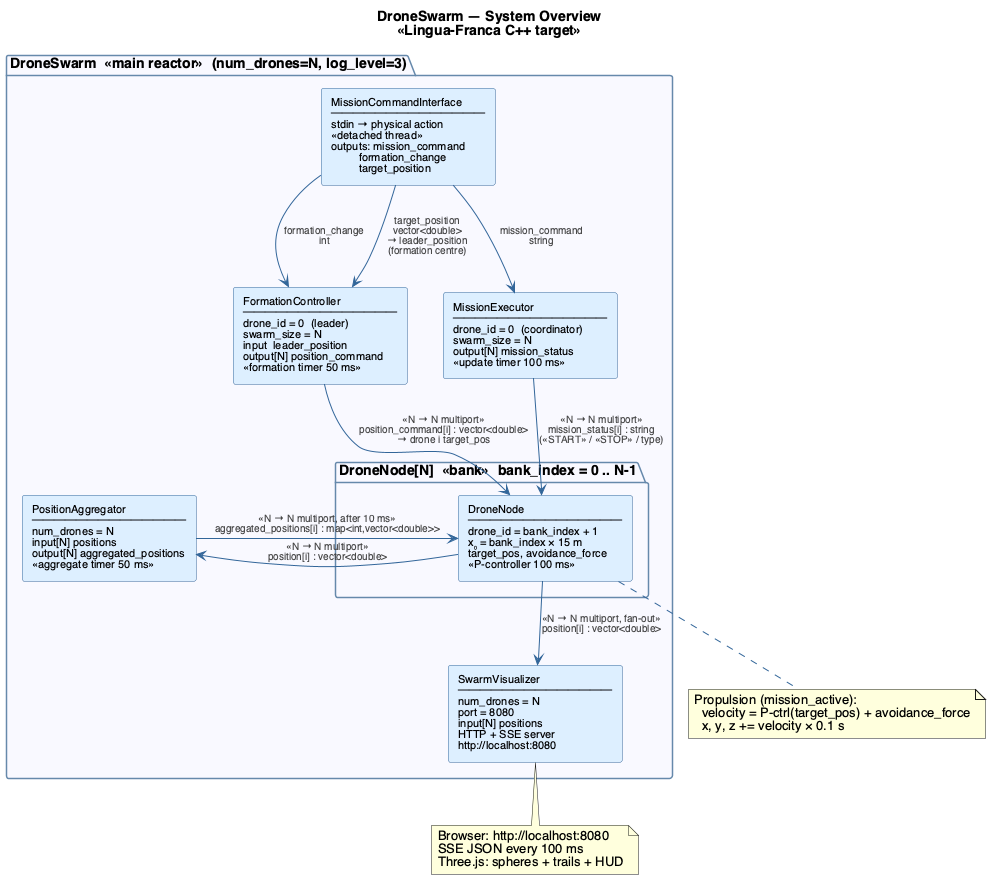
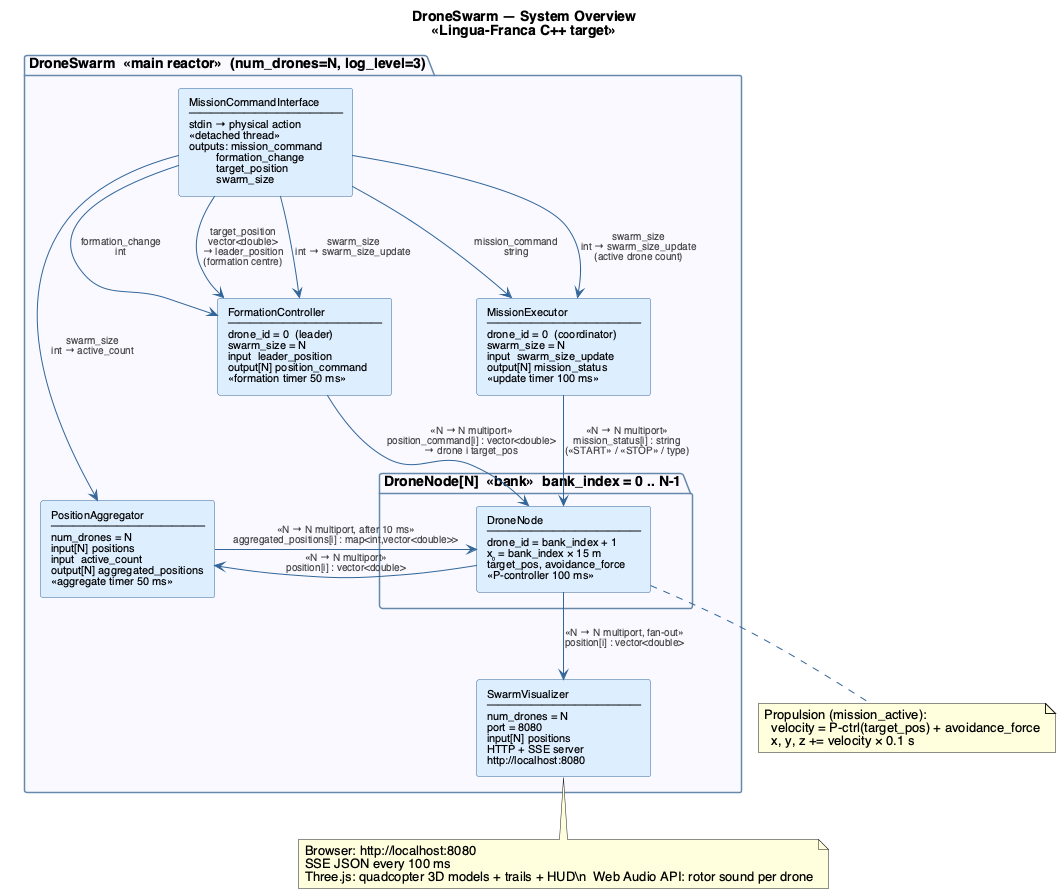
update doc with last changes: dynamic swarm resizing (limit max: initial size), quadcopter 3D model to visualize drones, sound per drone

Changed region(s): [[0.0, 0.0, 0.999, 1.0], [0.0605, 0.2148, 0.1514, 0.2761]]

diff --git a/doc/architecture.md b/doc/architecture.md
@@ -120,6 +120,7 @@ Bridge between the human operator and the reactive system. Uses an LF **physical
 | `mission_command` | `string` | `mission_coordinator.mission_command` |
 | `formation_change` | `int` | `swarm_formation.formation_change` |
 | `target_position` | `vector<double>` | `swarm_formation.leader_position` |
+| `swarm_size` | `int` | `swarm_formation.swarm_size_update`, `mission_coordinator.swarm_size_update`, `aggregator.active_count` |
 
 **Recognised commands:**
 
@@ -129,6 +130,7 @@ Bridge between the human operator and the reactive system. Uses an LF **physical
 | Control | `START` `STOP` `ABORT` `PAUSE` `RESUME` `RTB` |
 | Formation | `FORMATION 0` (diamond) `FORMATION 1` (line) `FORMATION 2` (V) `FORMATION 3` (circle) |
 | Position | `TARGET x y z` (formation centre — updates `leader_position` in FormationController) |
+| Swarm size | `SWARM N` (resize the active swarm to N drones; activates/deactivates drones without recompilation) |
 | Help | `HELP` |
 
 **Example session:**
@@ -147,6 +149,8 @@ Bridge between the human operator and the reactive system. Uses an LF **physical
 [FORMATION] → circle
 > TARGET 100 50 20
 [TARGET] → (100.00, 50.00, 20.00)
+> SWARM 3
+[SWARM] → 3 active drones
 > PAUSE
 [MISSION] → PAUSE
 > RTB
@@ -165,8 +169,11 @@ Collects the positions of all drones through an **input multiport** of width `nu
 |------|------|-------|
 | `positions[num_drones]` | `vector<double>` | N inputs |
 | `aggregated_positions[num_drones]` | `map<int, vector<double>>` | N outputs |
+| `active_count` | `int` | 1 input (from `cmd_interface.swarm_size`) |
 
 The output multiport ensures a clean N→N connection to `drones.neighbor_positions` (see §9).
+
+**State:** `n_active: int = num_drones` — tracks the number of currently active drones. When `active_count` decreases, deactivated drone entries are removed from `all_positions`. The `positions` reaction only stores positions for drones where `(i+1) <= n_active`.
 
 | Timer | Period |
 |-------|--------|
@@ -207,6 +214,8 @@ This spacing ensures drones do not overlap at startup, allowing collision avoida
 | `avoidance_force` | `vector<double>` | `{0, 0, 0}` | repulsion force (collision avoidance) |
 | `velocity` | `vector<double>` | `{0, 0, 0}` | resulting velocity |
 | `mission_active` | `bool` | `false` | enables propulsion |
+| `active` | `bool` | `true` | drone is active; inactive drones skip all propulsion and position publishing |
+| `mission_was_active` | `bool` | `false` | remembers `mission_active` state across a DEACTIVATE/ACTIVATE cycle |
 
 **Ports:**
 
@@ -226,8 +235,10 @@ This spacing ensures drones do not overlap at startup, allowing collision avoida
 | `formation_command` | updates `target_pos` (drone moves towards this target) |
 | `mission_update = "START"` | sets `mission_active = true`, logs current position |
 | `mission_update = "STOP"` | sets `mission_active = false` |
-| `update_timer` (100 ms) | publishes `position`, applies propulsion + integration when `mission_active` |
-| `neighbor_positions` | recomputes `avoidance_force` (repulsion for distances 0.1–5 m) |
+| `mission_update = "DEACTIVATE"` | sets `active = false`, saves `mission_active` to `mission_was_active`, clears `mission_active` |
+| `mission_update = "ACTIVATE"` | sets `active = true`, restores `mission_active` from `mission_was_active` |
+| `update_timer` (100 ms) | no-op if `!active`; otherwise publishes `position`, applies propulsion + integration when `mission_active` |
+| `neighbor_positions` | no-op if `!active`; otherwise recomputes `avoidance_force` (repulsion for distances 0.1–5 m) |
 
 **Instantiated subsystems:**
 
@@ -260,8 +271,9 @@ Computes the target position of each drone within the formation. Instantiated on
 |------|------|--------|
 | `formation_change` | `int` | `cmd_interface.formation_change` |
 | `leader_position` | `vector<double>` | `cmd_interface.target_position` |
+| `swarm_size_update` | `int` | `cmd_interface.swarm_size` |
 
-The `leader_position` port receives the formation centre set by the `TARGET x y z` command. When not set, the formation is centred on the origin.
+The `leader_position` port receives the formation centre set by the `TARGET x y z` command. When not set, the formation is centred on the origin. The `swarm_size_update` port updates the runtime `num_followers` counter so that `send_formation_pos` loops only over currently active drones.
 
 **Formation types:**
 
@@ -341,6 +353,14 @@ Manages the mission lifecycle: waypoint loading, progress tracking, timeout mana
 | `drone_id` | 0 | drone identifier |
 | `swarm_size` | 1 | output multiport width (> 1 only for the swarm coordinator) |
 
+**Input ports:**
+
+| Port | Type | Source |
+|------|------|--------|
+| `swarm_size_update` | `int` | `cmd_interface.swarm_size` |
+
+When `swarm_size_update` fires, the `swarm_size_change` reaction broadcasts `"ACTIVATE"` to newly added drone slots and `"DEACTIVATE"` to removed slots via `mission_status`.
+
 **Output ports:**
 
 | Port | Type | Description |
@@ -359,6 +379,8 @@ Manages the mission lifecycle: waypoint loading, progress tracking, timeout mana
 | `"STOP"` | `STOP` or `ABORT` command (sets `mission_active = false`) |
 | `"PATROL"`, `"RTB"`, … | mission type change |
 | `"PATROL_PROGRESS_xx%"` | periodic progress update (100 ms) |
+| `"ACTIVATE"` | `SWARM N` command — sent to drone slots newly included in the active swarm |
+| `"DEACTIVATE"` | `SWARM N` command — sent to drone slots removed from the active swarm |
 
 **Supported missions:**
 
@@ -438,12 +460,16 @@ Each SSE connection is handled in its own detached client thread. The HTML page 
 
 **Three.js page features:**
 
-- Coloured spheres for each drone (colour by index)
+- 3D quadcopter models per drone (body, arms, rotors, legs, navigation LEDs)
+- Banking animation (drone tilts toward direction of motion)
+- Propeller spin animation (alternating CW/CCW per rotor)
 - 150-point trails per drone
 - Drone number labels
 - HUD displaying live x/y/z coordinates
 - OrbitControls: rotate, zoom, pan with mouse
 - Ground grid as spatial reference
+- Web Audio API sound synthesis: 2 sawtooth oscillators + bandpass filter per drone, pitch-shifted per drone ID
+- SOUND ON/OFF toggle button
 
 **Connection in DroneSwarm:**
 
@@ -466,8 +492,11 @@ drones.position -> viz.positions
 │                │                                                 │
 │                ├──[mission_command]──► mission_coordinator       │
 │                ├──[formation_change]──► swarm_formation          │
-│                └──[target_position]──► swarm_formation           │
-│                         (leader_position: formation centre)      │
+│                ├──[target_position]──► swarm_formation           │
+│                │        (leader_position: formation centre)      │
+│                ├──[swarm_size]──► swarm_formation.swarm_size_update│
+│                ├──[swarm_size]──► mission_coordinator.swarm_size_update│
+│                └──[swarm_size]──► aggregator.active_count        │
 │                                                                  │
 │  swarm_formation ──[position_command × N]──► drones[N]          │
 │         multiport N → N (unique target per drone)               │
@@ -848,3 +877,12 @@ data: {"drones":[{"id":1,"x":0.0,"y":0.0,"z":10.0},{"id":2,"x":5.0,"y":-5.0,"z":
 ```
 
 The browser consumes this stream via `new EventSource('/events')` and updates the Three.js scene on each received message.
+
+### Audio
+
+The browser page includes a Web Audio API sound synthesis engine that gives each drone an audible presence:
+
+- Click the **"SOUND OFF"** button (top-right corner of the page) to enable audio; it toggles to **"SOUND ON"** while active.
+- Each drone emits a characteristic rotor buzz synthesized entirely in the browser: two sawtooth oscillators (fundamental `base = 82 + (id-1)*9` Hz and a slightly detuned 2nd harmonic at `base × 2.03`) shaped by a bandpass filter centred at ~3.5× the fundamental (Q = 1.8). Volume ramps up smoothly when a drone appears and ramps down when it disappears.
+- Each drone has a slightly different pitch (stepped by 9 Hz per drone ID), so individual drones can be distinguished aurally even without visual tracking.
+- The `AudioContext` is created lazily on the first button click to comply with the browser autoplay policy (audio is never started without a user gesture).
